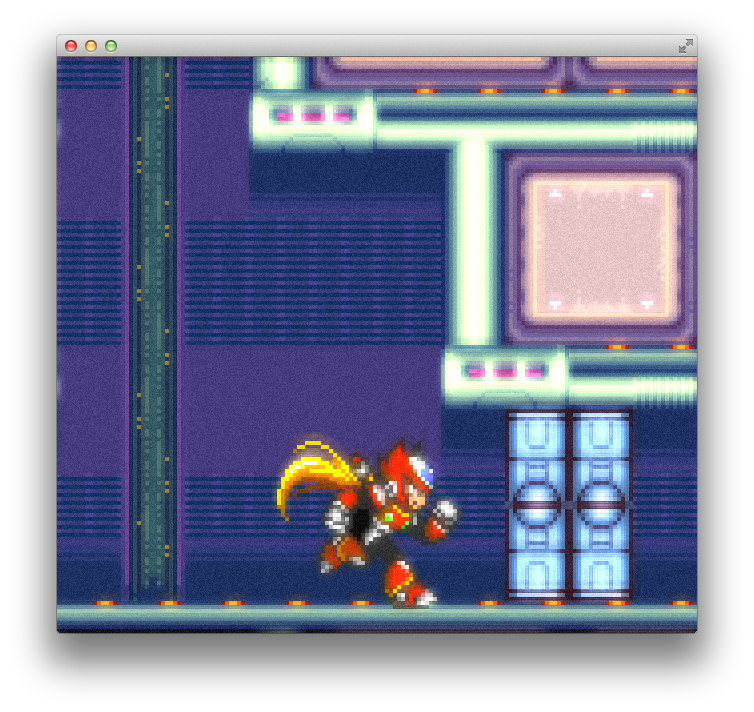
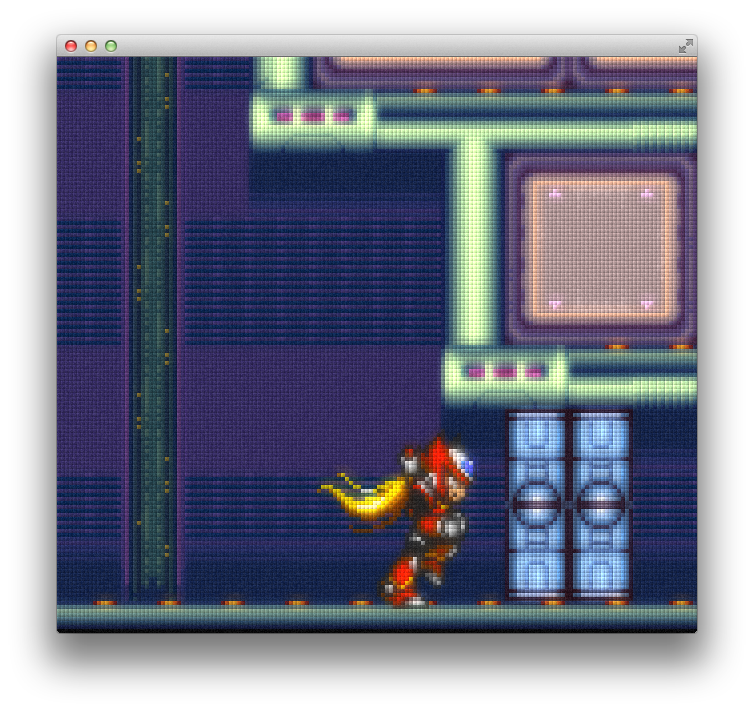
Superpixel shading

diff --git a/demo.c b/demo.c
@@ -251,7 +251,8 @@ void draw(double deltaTime)
 /* Global */
 GLuint fbo, fbo_texture, rbo_depth;
 GLuint vbo_fbo_vertices;
-GLuint program_postproc, attribute_v_coord_postproc, uniform_fbo_texture;
+GLuint program_postproc, attribute_v_coord_postproc,
+  uniform_fbo_texture, uniform_screen_sizes;
 
 int initFrameBuffer()
 {
@@ -306,12 +307,8 @@ int initFrameBuffer()
     return GL_FALSE;
   }
  
-  char *uniform_name = "fbo_texture";
-  uniform_fbo_texture = glGetUniformLocation(program_postproc, uniform_name);
-  if (uniform_fbo_texture == -1) {
-    fprintf(stderr, "Could not bind uniform %s\n", uniform_name);
-    return 0;
-  }
+  uniform_screen_sizes = glGetUniformLocation(program_postproc, "screen_sizes");
+  uniform_fbo_texture = glGetUniformLocation(program_postproc, "fbo_texture");
 
   return GL_TRUE;
 }
@@ -324,6 +321,11 @@ void drawFramebuffer()
   glUseProgram(program_postproc);
   glBindTexture(GL_TEXTURE_2D, fbo_texture);
   glUniform1i(uniform_fbo_texture, 0);
+
+  // mash them into one vector uniform;
+  glUniform4f(uniform_screen_sizes, (float)fauxWidth,
+    (float)fauxHeigth, (float)realWidth, (float)realHeight);
+
   glEnableVertexAttribArray(attribute_v_coord_postproc); 
   glBindBuffer(GL_ARRAY_BUFFER, vbo_fbo_vertices);
 

diff --git a/README.md b/README.md
@@ -14,7 +14,3 @@ Result so far:
 ![Demo](https://github.com/ambethia/zero-demo/raw/master/demo.png)
 
 ![Demo](https://github.com/ambethia/zero-demo/raw/master/sprites.png)
-
-TODO:
-
-Just need to add the "superpixel" gradient.
